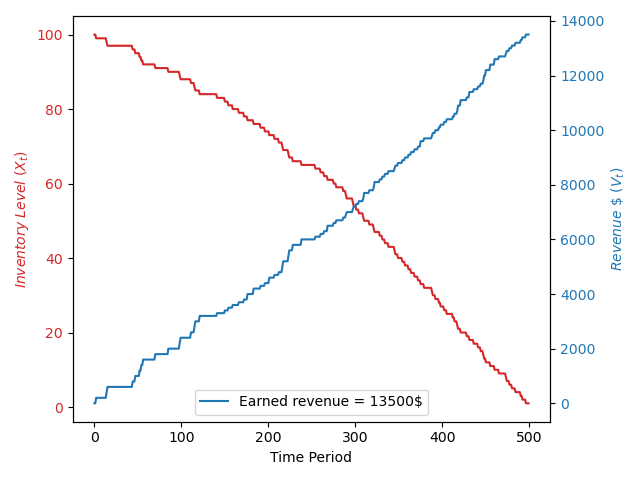
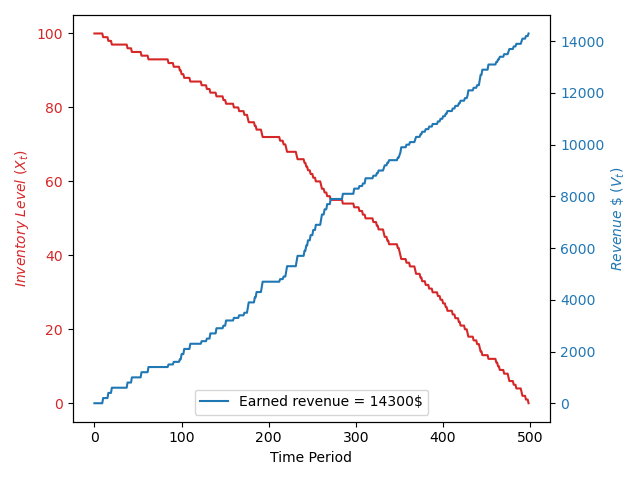
update generalizable

diff --git a/assignment1/ass1.py b/assignment1/ass1.py
@@ -109,7 +109,7 @@ def basic_inventory_dp(T_dim:int, X_dim:int, A:list, P:list,
             POLICY[x,t] = A[best_action]
 
     # Maximum expected revenue
-    print('Optimal expected revenue:', maxrev := DP[100,0])
+    print('Optimal expected revenue:', maxrev := DP[X_dim-1,0])
 
     if not partDE:
         DP_frame = DataFrame(DP, columns = [f't={t}' for t in range(T_dim)]).to_csv('Part1matrix.csv')
